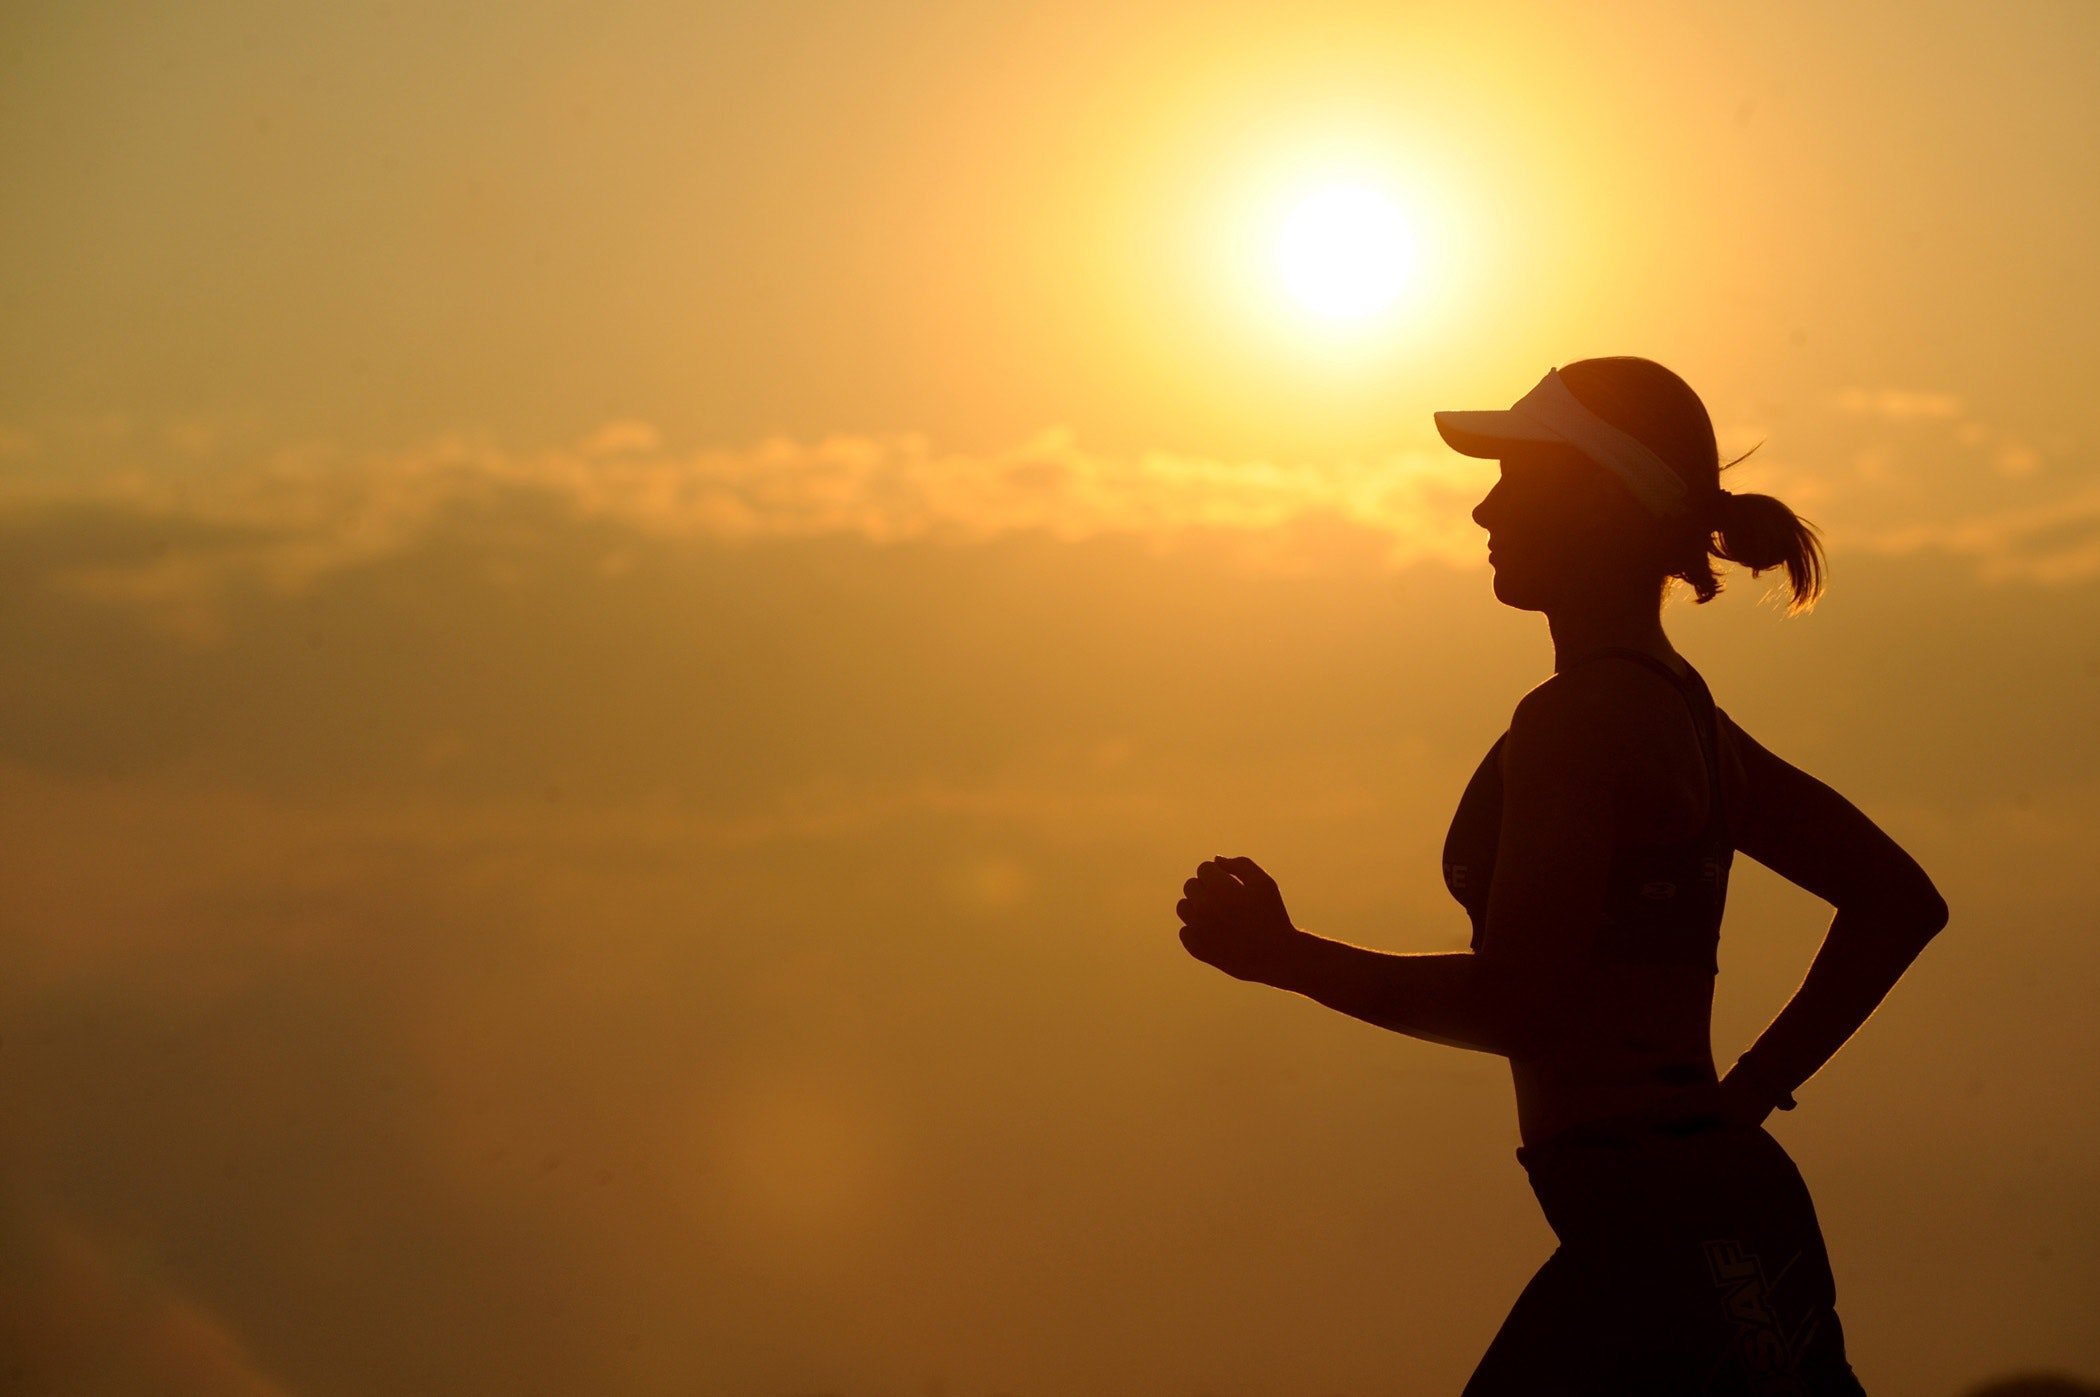
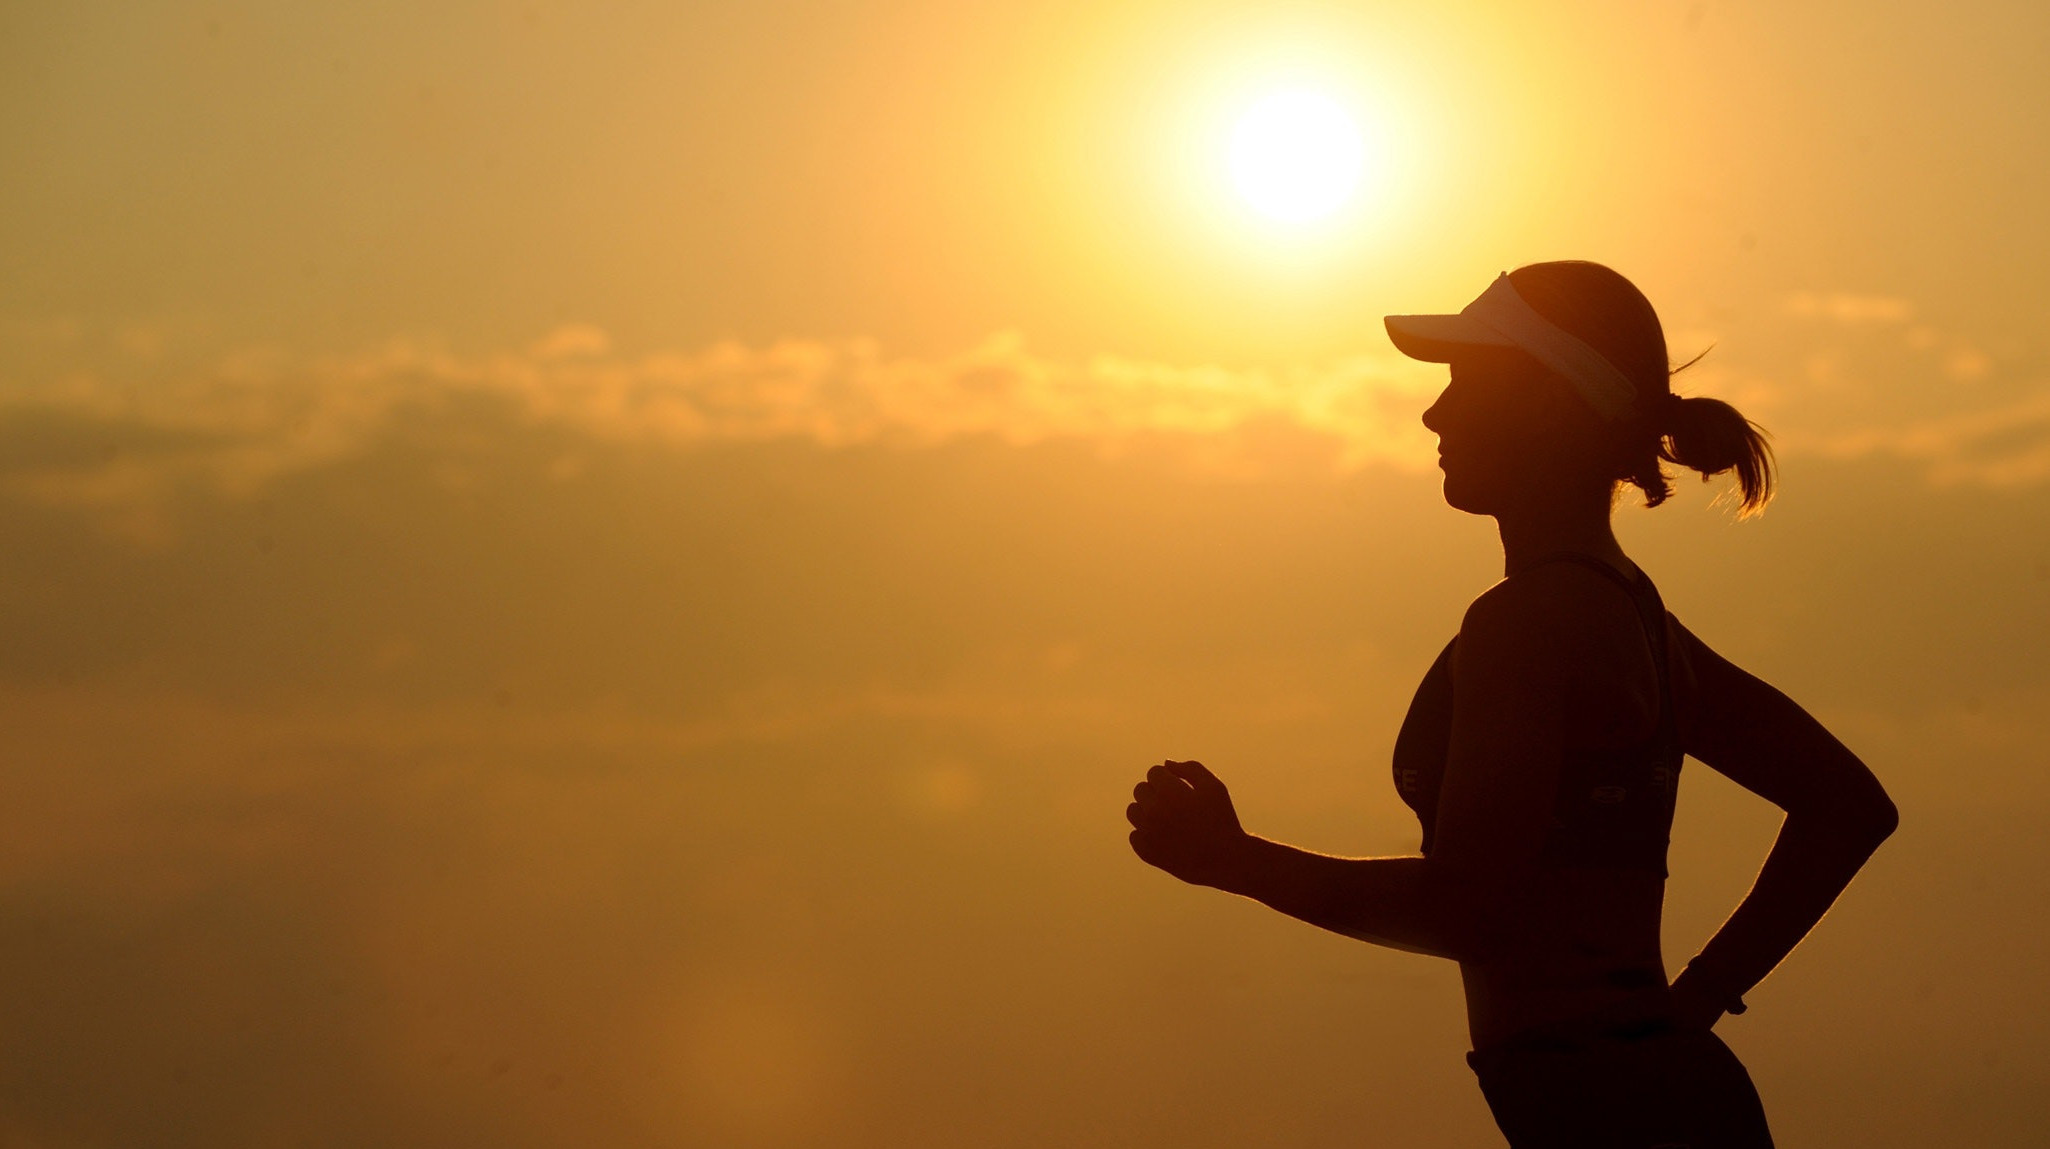
Additional styling added to the home. Added better contextual stub text.

diff --git a/src/Home.js b/src/Home.js
@@ -1,23 +1,38 @@
 import React, { Component } from 'react';
-import { Parallax } from 'react-materialize';
-import parallax1 from './woman-running.jpg';
+import { Parallax, Row, Col } from 'react-materialize';
+import Parallax1 from './woman-running.jpg';
+import Parallax2 from './yoga-mat.jpg';
 
 class Home extends Component {
   render() {
     return (
     	<div>
-    		<div className="row container">
-    		  <h2 className="header">EXAMPLE HEADER</h2>
-    		  <p className="grey-text text-darken-3 lighten-3">This is example text</p>
+    		<div className="row container home-padding">
+        <Col s="10">
+    		  <h2 className="header">What is HomePT?</h2>
+    		  <p className="grey-text text-darken-3 lighten-3 flow-text">
+          HomePT is an application to improve communication between Physical Therapist and Client.
+          </p>
+        </Col>
     		</div>
-    	  <Parallax imageSrc={parallax1}/>
+    	  <Parallax className="parallax-class" imageSrc={Parallax1}/>
     	  <div className="section white">
     	    <div className="row container">
-    	      <h2 className="header">EXAMPLE HEADER</h2>
-    	      <p className="grey-text text-darken-3 lighten-3">This is example text</p>
+          <Col s="8 right">
+    	      <h2 className="header">Why should I use HomePT?</h2>
+    	      <p className="grey-text text-darken-3 lighten-3 flow-text">
+            HomePT helps keep clients engaged and motivated by allowing them to always have their exercise regime on hand. Physical therapists can modify a regime in real time for the client to see and helps with gathering feedback easier and faster.
+            </p>
+          </Col>
     	    </div>
     	  </div>
-    	  <Parallax imageSrc="http://materializecss.com/images/parallax2.jpg"/>
+    	  <Parallax className="parallax-class" imageSrc={Parallax2}/>
+        <div className="row container">
+          <h2 className="header">How do I sign up?</h2>
+          <p className="grey-text text-darken-3 lighten-3 flow-text">
+          Accounts are only given out by the physical therapist.
+          </p>
+        </div>
     	</div>
     );
   }

diff --git a/src/ScriptForm.js b/src/ScriptForm.js
@@ -13,11 +13,6 @@ class Signup extends Component {
       };
   };
 
-  componentDidMount() {
-      console.log("On CDM of SignUp, user is:", this.props.user);
-      console.log("The user state is: ", this.props.user.id)
-  }
-
   handleNames = (e) => {
       //e.preventDefault();
       console.log('Getting those clients for provider', this.props.user)
@@ -76,7 +71,7 @@ class Signup extends Component {
                         </div>
                         <div>
                         <Row>
-                        <Input s={12} type='select' label="Materialize Select" defaultValue='2' onChange={this.handleNames}>
+                        <Input s={12} type='select' label="Materialize Select" defaultValue='1' onChange={this.handleNames}>
                             <option value='1'>Option 1</option>
                             <option value='2'>Option 2</option>
                             <option value='3'>Option 3</option>
@@ -84,7 +79,9 @@ class Signup extends Component {
                         </Input>
                         </Row>
                         </div>
-                        <input type="submit" value="Register" className="button" />
+                        <div>
+                            <Button className="blue darken-1" type="submit" value="Register" waves='light'>Submit</Button>
+                        </div>
                     </form>
                 </div>
             )

diff --git a/src/App.css b/src/App.css
@@ -34,3 +34,13 @@
   padding: 50px;
   width: 40%; 
 }
+
+.parallax-class {
+  height: 350px;
+  margin-top: 90px;
+  margin-bottom: 90px;
+}
+
+.home-padding {
+  margin-top: 50px;
+}
